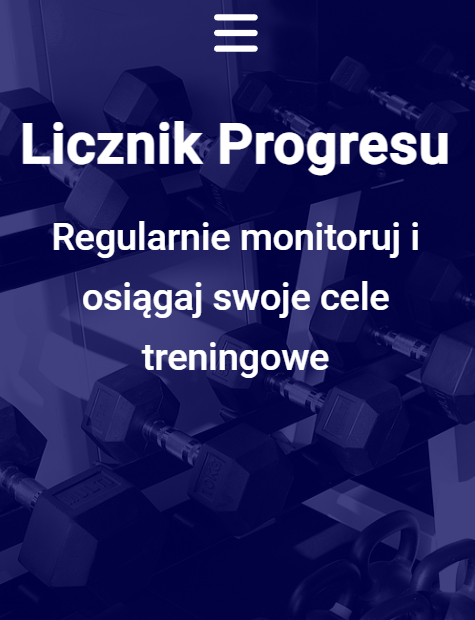
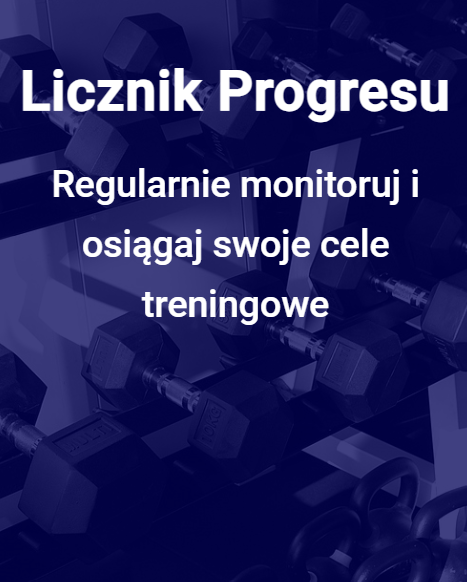
Prjects Cards sm styles refactored

diff --git a/src/components/Projects/ProjectCardSm/ProjectCardSm.module.scss b/src/components/Projects/ProjectCardSm/ProjectCardSm.module.scss
@@ -4,7 +4,7 @@
   position: relative;
   margin: 20px;
   width: 320px;
-  height: 370px;
+  height: 400px;
   border-radius: 10%;
   background-position: top;
   background-size: cover;
@@ -17,7 +17,6 @@
   box-shadow: 0 0px 10px rgba(255, 255, 255, 0.7);
   @include small-screens {
     margin: 20px 0;
-    width: 300px;
   }
 
   &:before {
@@ -28,17 +27,16 @@
     left: 0;
     right: 0;
     bottom: 0;
-    background: rgba(0, 0, 0, 0.75);
+    background: linear-gradient(to top, rgba(0, 0, 0, 1), rgba(0, 0, 0, 0.1));
     z-index: 0;
   }
 
   &Name {
     text-transform: uppercase;
-    font-size: 28px;
+    font-size: 26px;
     letter-spacing: 1px;
-    font-weight: 700;
+    font-weight: 800;
     margin: 0 5px;
-    text-shadow: rgba(255, 255, 255, 0.5) 0 5px 10px;
     z-index: 1;
     @include small-screens {
       font-size: 24px;
@@ -70,7 +68,7 @@
     }
 
     @include small-screens {
-      font-size: 20px;
+      font-size: 20px !important;
       height: 40px;
     }
   }
